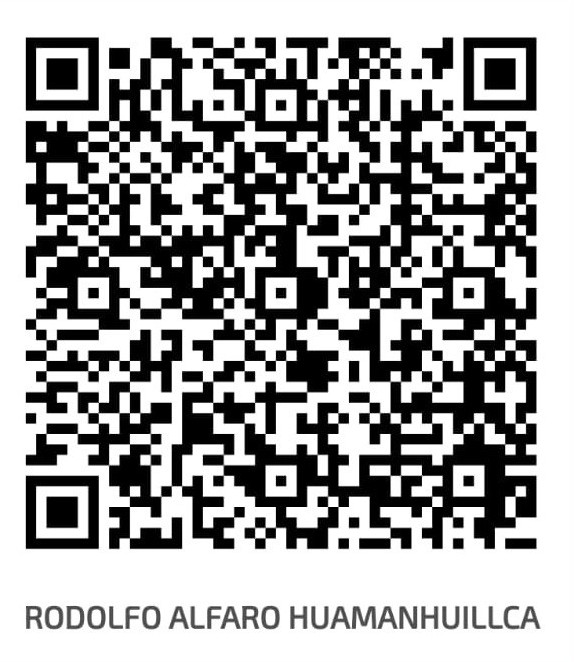
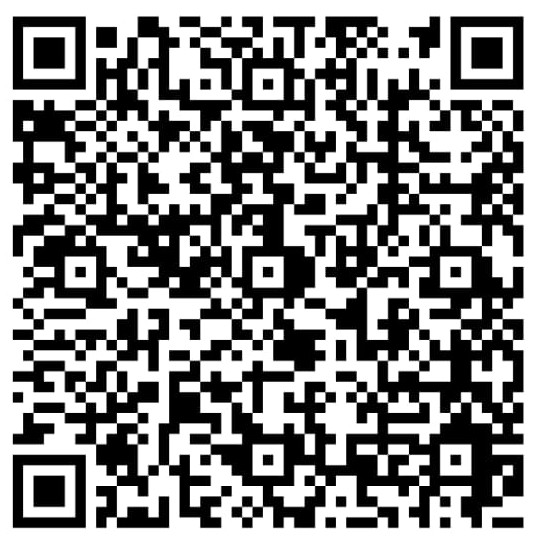
Mejora

diff --git a/resources/js/Pages/Home/Partials/Checkout/MetodosPago.tsx b/resources/js/Pages/Home/Partials/Checkout/MetodosPago.tsx
@@ -226,7 +226,7 @@ export default function MetodosPago({ pedido, metodos }: Props) {
                 <div className="space-y-3 mb-4">
                   <div className="flex items-center text-sm text-gray-600">
                     <span className="font-medium">Número:</span>
-                    <span className="ml-2">999 888 777</span>
+                    <span className="ml-2">982 210 984</span>
                   </div>
                   <img
                     src="/pagos/qryape.jpg"
@@ -274,8 +274,8 @@ export default function MetodosPago({ pedido, metodos }: Props) {
                 <p className="text-sm text-gray-600 mb-4">Transfiere fácilmente desde cualquier banco</p>
                 <div className="space-y-3 mb-4">
                   <div className="flex items-center text-sm text-gray-600">
-                    <span className="font-medium">Número:</span>
-                    <span className="ml-2">988 877 766</span>
+                    <span className="font-medium">Para pagar:</span>
+                    <span className="ml-2">Escanea el código QR</span>
                   </div>
                   <img
                     src="/pagos/qrplin.jpg"
@@ -319,12 +319,12 @@ export default function MetodosPago({ pedido, metodos }: Props) {
                     Nuevo
                   </span>
                 </div>
-                <h3 className="text-lg font-semibold text-gray-900 mb-2">Waiky</h3>
-                <p className="text-sm text-gray-600 mb-4">Paga de forma rápida con Waiky</p>
+                <h3 className="text-lg font-semibold text-gray-900 mb-2">Wayki</h3>
+                <p className="text-sm text-gray-600 mb-4">Paga de forma rápida con Wayki</p>
                 <div className="space-y-3 mb-4">
                   <div className="flex items-center text-sm text-gray-600">
-                    <span className="font-medium">Número:</span>
-                    <span className="ml-2">977 666 555</span>
+                    <span className="font-medium">Para pagar:</span>
+                    <span className="ml-2">Escanea el código QR</span>
                   </div>
                   <img
                     src="/pagos/qrwayki.jpg"
@@ -347,7 +347,7 @@ export default function MetodosPago({ pedido, metodos }: Props) {
                         </svg>
                         Procesando...
                       </span>
-                      : 'Pagar con Waiky'
+                      : 'Pagar con Wayki'
                     }
                   </button>
                 </form>
@@ -526,7 +526,7 @@ export default function MetodosPago({ pedido, metodos }: Props) {
                       <span className="flex items-center justify-center w-8 h-8 bg-blue-100 rounded-full text-blue-600 font-semibold text-sm mr-3">1</span>
                       <h4 className="font-medium text-gray-900">Selecciona el método</h4>
                     </div>
-                    <p className="text-sm text-gray-600">Elige el método de pago que prefieras entre las opciones disponibles: Yape, Plin, Waiky o transferencia bancaria.</p>
+                    <p className="text-sm text-gray-600">Elige el método de pago que prefieras entre las opciones disponibles: Yape, Plin, Wayki o transferencia bancaria.</p>
                   </div>
 
                   <div className="bg-white rounded-xl p-6 shadow-sm">
